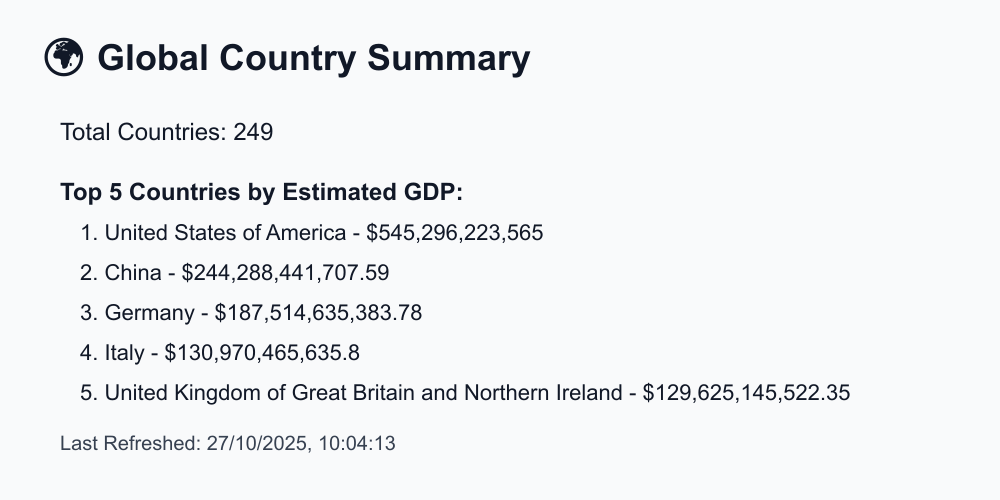
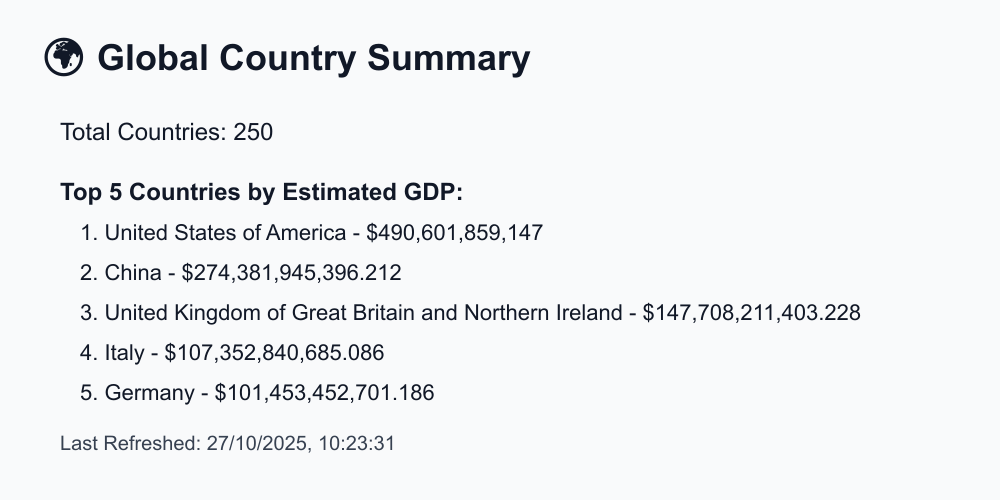
hahfhskfks

diff --git a/Stage-2/dist/controllers/country.controller.js b/Stage-2/dist/controllers/country.controller.js
@@ -182,58 +182,45 @@ exports.getcounrtyStatus = getcounrtyStatus;
 //getcountrybyimage
 const getCountrySummaryImage = async (req, res) => {
     try {
-        // 1⃣ Total number of countries
         const totalCountries = await prisma.country.count();
-        // 2⃣ Top 5 countries by estimated GDP
         const topGDP = await prisma.country.findMany({
             orderBy: { estimated_gdp: "desc" },
             take: 5,
             select: { name: true, estimated_gdp: true },
         });
-        // 3⃣ Last refresh timestamp
         const latest = await prisma.country.findFirst({
             orderBy: { last_refreshed_at: "desc" },
             select: { last_refreshed_at: true },
         });
-        // Create canvas
         const canvas = (0, canvas_1.createCanvas)(1000, 500);
         const ctx = canvas.getContext("2d");
         // Background
-        ctx.fillStyle = "#f9fafb"; // clean light background
+        ctx.fillStyle = "#f9fafb";
         ctx.fillRect(0, 0, canvas.width, canvas.height);
-        // Title
         ctx.fillStyle = "#111827";
         ctx.font = "bold 36px Arial";
         ctx.fillText("🌍 Global Country Summary", 40, 70);
-        // Total countries
         ctx.font = "24px Arial";
         ctx.fillText(`Total Countries: ${totalCountries}`, 60, 140);
-        // Top 5 GDP countries
         ctx.font = "bold 24px Arial";
         ctx.fillText("Top 5 Countries by Estimated GDP:", 60, 200);
         ctx.font = "22px Arial";
         topGDP.forEach((c, i) => {
             const gdpValue = c.estimated_gdp ?? 0;
-            ctx.fillText(`${i + 1}. ${c.name} - $${gdpValue.toLocaleString(undefined, {
-                maximumFractionDigits: 2,
-            })}`, 80, 240 + i * 40);
+            ctx.fillText(`${i + 1}. ${c.name} - $${gdpValue.toLocaleString()}`, 80, 240 + i * 40);
         });
-        // Last refresh timestamp
         ctx.font = "20px Arial";
         ctx.fillStyle = "#374151";
         ctx.fillText(`Last Refreshed: ${latest?.last_refreshed_at
             ? new Date(latest.last_refreshed_at).toLocaleString()
             : "N/A"}`, 60, 450);
-        // Generate image
+        // Save + respond with PNG
         const buffer = canvas.toBuffer("image/png");
-        //caches and saves the image
         const cacheDir = path_1.default.join(process.cwd(), "cache");
-        if (!fs_1.default.existsSync(cacheDir)) {
+        if (!fs_1.default.existsSync(cacheDir))
             fs_1.default.mkdirSync(cacheDir);
-        }
-        const filePath = path_1.default.join(cacheDir, "summary.png");
-        fs_1.default.writeFileSync(filePath, buffer);
-        console.log(`✅ Summary image saved at ${filePath}`);
+        fs_1.default.writeFileSync(path_1.default.join(cacheDir, "summary.png"), buffer);
+        // 🟢 Display image in browser
         res.setHeader("Content-Type", "image/png");
         res.setHeader("Content-Disposition", "inline; filename=summary.png");
         res.send(buffer);
@@ -241,9 +228,6 @@ const getCountrySummaryImage = async (req, res) => {
     catch (error) {
         console.error(error);
         res.status(500).json({ error: "Failed to generate image" });
-    }
-    finally {
-        await prisma.$disconnect();
     }
 };
 exports.getCountrySummaryImage = getCountrySummaryImage;

diff --git a/Stage-2/src/controllers/country.controller.ts b/Stage-2/src/controllers/country.controller.ts
@@ -203,40 +203,33 @@ export const getcounrtyStatus = async (req: Request, res: Response) => {
 
 export const getCountrySummaryImage = async (req: Request, res: Response) => {
   try {
-    // 1⃣ Total number of countries
     const totalCountries = await prisma.country.count();
 
-    // 2⃣ Top 5 countries by estimated GDP
     const topGDP = await prisma.country.findMany({
       orderBy: { estimated_gdp: "desc" },
       take: 5,
       select: { name: true, estimated_gdp: true },
     });
 
-    // 3⃣ Last refresh timestamp
     const latest = await prisma.country.findFirst({
       orderBy: { last_refreshed_at: "desc" },
       select: { last_refreshed_at: true },
     });
 
-    // Create canvas
     const canvas = createCanvas(1000, 500);
     const ctx = canvas.getContext("2d");
 
     // Background
-    ctx.fillStyle = "#f9fafb"; // clean light background
+    ctx.fillStyle = "#f9fafb";
     ctx.fillRect(0, 0, canvas.width, canvas.height);
 
-    // Title
     ctx.fillStyle = "#111827";
     ctx.font = "bold 36px Arial";
     ctx.fillText("🌍 Global Country Summary", 40, 70);
 
-    // Total countries
     ctx.font = "24px Arial";
     ctx.fillText(`Total Countries: ${totalCountries}`, 60, 140);
 
-    // Top 5 GDP countries
     ctx.font = "bold 24px Arial";
     ctx.fillText("Top 5 Countries by Estimated GDP:", 60, 200);
 
@@ -244,15 +237,12 @@ export const getCountrySummaryImage = async (req: Request, res: Response) => {
     topGDP.forEach((c, i) => {
       const gdpValue = c.estimated_gdp ?? 0;
       ctx.fillText(
-        `${i + 1}. ${c.name} - $${gdpValue.toLocaleString(undefined, {
-          maximumFractionDigits: 2,
-        })}`,
+        `${i + 1}. ${c.name} - $${gdpValue.toLocaleString()}`,
         80,
         240 + i * 40
       );
     });
 
-    // Last refresh timestamp
     ctx.font = "20px Arial";
     ctx.fillStyle = "#374151";
     ctx.fillText(
@@ -265,24 +255,18 @@ export const getCountrySummaryImage = async (req: Request, res: Response) => {
       450
     );
 
-    // Generate image
+    // Save + respond with PNG
     const buffer = canvas.toBuffer("image/png");
-    //caches and saves the image
     const cacheDir = path.join(process.cwd(), "cache");
-    if (!fs.existsSync(cacheDir)) {
-      fs.mkdirSync(cacheDir);
-    }
-    const filePath = path.join(cacheDir, "summary.png");
-    fs.writeFileSync(filePath, buffer);
-    console.log(`✅ Summary image saved at ${filePath}`);
+    if (!fs.existsSync(cacheDir)) fs.mkdirSync(cacheDir);
+    fs.writeFileSync(path.join(cacheDir, "summary.png"), buffer);
 
+    // 🟢 Display image in browser
     res.setHeader("Content-Type", "image/png");
     res.setHeader("Content-Disposition", "inline; filename=summary.png");
     res.send(buffer);
   } catch (error) {
     console.error(error);
     res.status(500).json({ error: "Failed to generate image" });
-  } finally {
-    await prisma.$disconnect();
   }
 };
